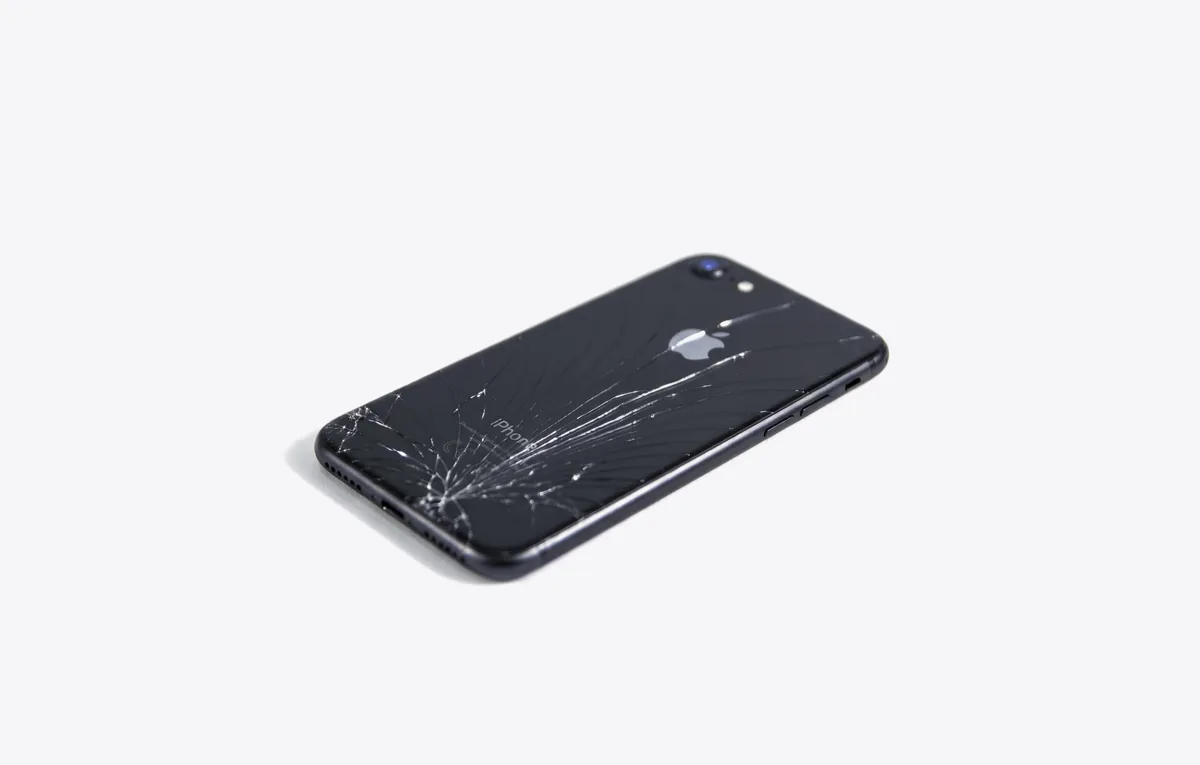
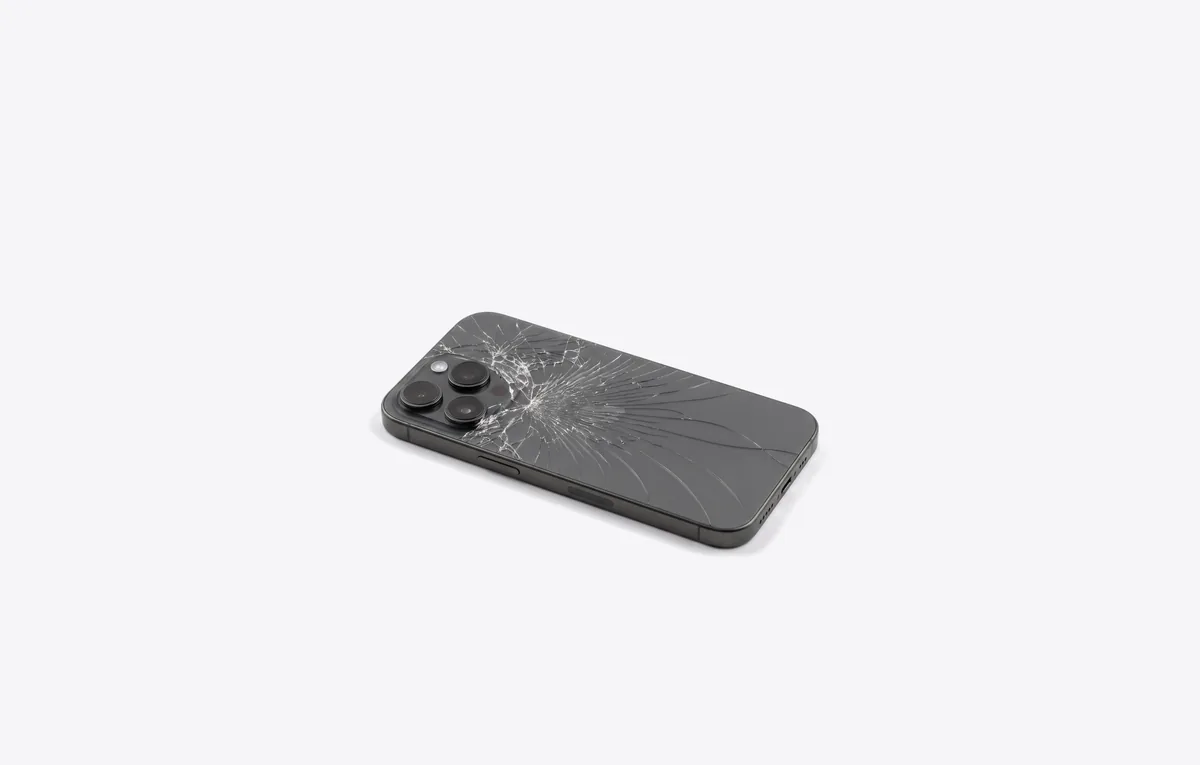
feat: newer MacBook and iPhone photos for Mac, display and back glass

Changed region(s): [[0.2467, 0.3307, 0.74, 0.7817]]

diff --git a/src/lib/photos.ts b/src/lib/photos.ts
@@ -1,5 +1,5 @@
 // Pexels photos (free licence, credited in the Impressum). Sizes are the 2400w export.
-// retouched: hero/display/rueckglas/mac-hero/watch* moved onto --gray with AI editing (rueckglas/watch-display cracks added, watch-akku restaged on a charger). ai: fully generated.
+// retouched: hero/display/rueckglas/mac-hero/watch* moved onto --gray with AI editing (display/rueckglas/watch-display cracks added, watch-akku restaged on a charger). ai: fully generated.
 // v: bump when a photo's files change (URLs keep their name, assets are cached 30 days).
 // seamless: background is exactly --gray, so tiles show the whole shot without a fade.
 export const photos = {
@@ -7,12 +7,12 @@ export const photos = {
 	iphone: { w: 2400, h: 1600, alt: "Geöffnetes Smartphone mit Einzelteilen auf einer blauen Werkstattmatte", by: "Fotografia Lui Vlad", id: 31862953, retouched: true },
 	ipad: { w: 2400, h: 1600, alt: "Hand mit Eingabestift an einem Tablet auf einem weißen Schreibtisch", by: "cottonbro studio", id: 3944397 },
 	mac: { w: 2400, h: 1350, alt: "Geöffneter Laptop mit sichtbarer Platine auf einer Werkstattmatte", by: "Found GHI", id: 34514242 },
-	"mac-hero": { w: 2400, h: 1530, alt: "MacBook Air in der Frontansicht auf hellem Hintergrund", by: "Tuur Tisseghem", id: 812264, retouched: true, seamless: true, v: 2 },
+	"mac-hero": { w: 2400, h: 1530, alt: "MacBook Pro in der Frontansicht auf hellem Hintergrund", by: "Meet Patel", id: 37085303, retouched: true, seamless: true, v: 3 },
 	watch: { w: 2400, h: 1530, alt: "Apple Watch mit schwarzem Sportarmband auf hellem Hintergrund", by: "Torsten Dettlaff", id: 437037, retouched: true, seamless: true },
 	"watch-display": { w: 2400, h: 1530, alt: "Apple Watch mit gesprungenem Display auf hellem Hintergrund", by: "Torsten Dettlaff", id: 437037, retouched: true, seamless: true },
 	"watch-akku": { w: 2400, h: 1530, alt: "Apple Watch auf einem Ladepuck mit Ladeanzeige", by: "Torsten Dettlaff", id: 437037, retouched: true, seamless: true },
-	display: { w: 2400, h: 1530, alt: "iPhone mit gesprungenem Display auf hellem Hintergrund", by: "ClickerHappy", id: 1388947, retouched: true, seamless: true, v: 2 },
-	rueckglas: { w: 2400, h: 1530, alt: "iPhone mit gesprungenem Rückglas auf hellem Hintergrund", by: "Tuur Tisseghem", id: 818043, retouched: true, seamless: true, v: 2 },
+	display: { w: 2400, h: 1530, alt: "iPhone mit gesprungenem Display auf hellem Hintergrund", by: "Jakub Zerdzicki", id: 25922596, retouched: true, seamless: true, v: 3 },
+	rueckglas: { w: 2400, h: 1530, alt: "iPhone Pro mit gesprungenem Rückglas auf hellem Hintergrund", by: "Akaaljotsingh Anandpuria", id: 10885666, retouched: true, seamless: true, v: 3 },
 	akku: { w: 2400, h: 1530, alt: "Geöffnetes Smartphone mit sichtbarem Akku und Schraubendreher", by: "KI-generiert", id: "ki-akku", ai: true, seamless: true, v: 2 },
 	daten: { w: 2400, h: 1600, alt: "Geöffnete Festplatte mit Schreib-Lese-Kopf", by: "Pixabay", id: 209666 },
 	werkstatt: { w: 2400, h: 1600, alt: "Techniker an einem Reparaturplatz", by: "Tima Miroshnichenko", id: 6755092 },
